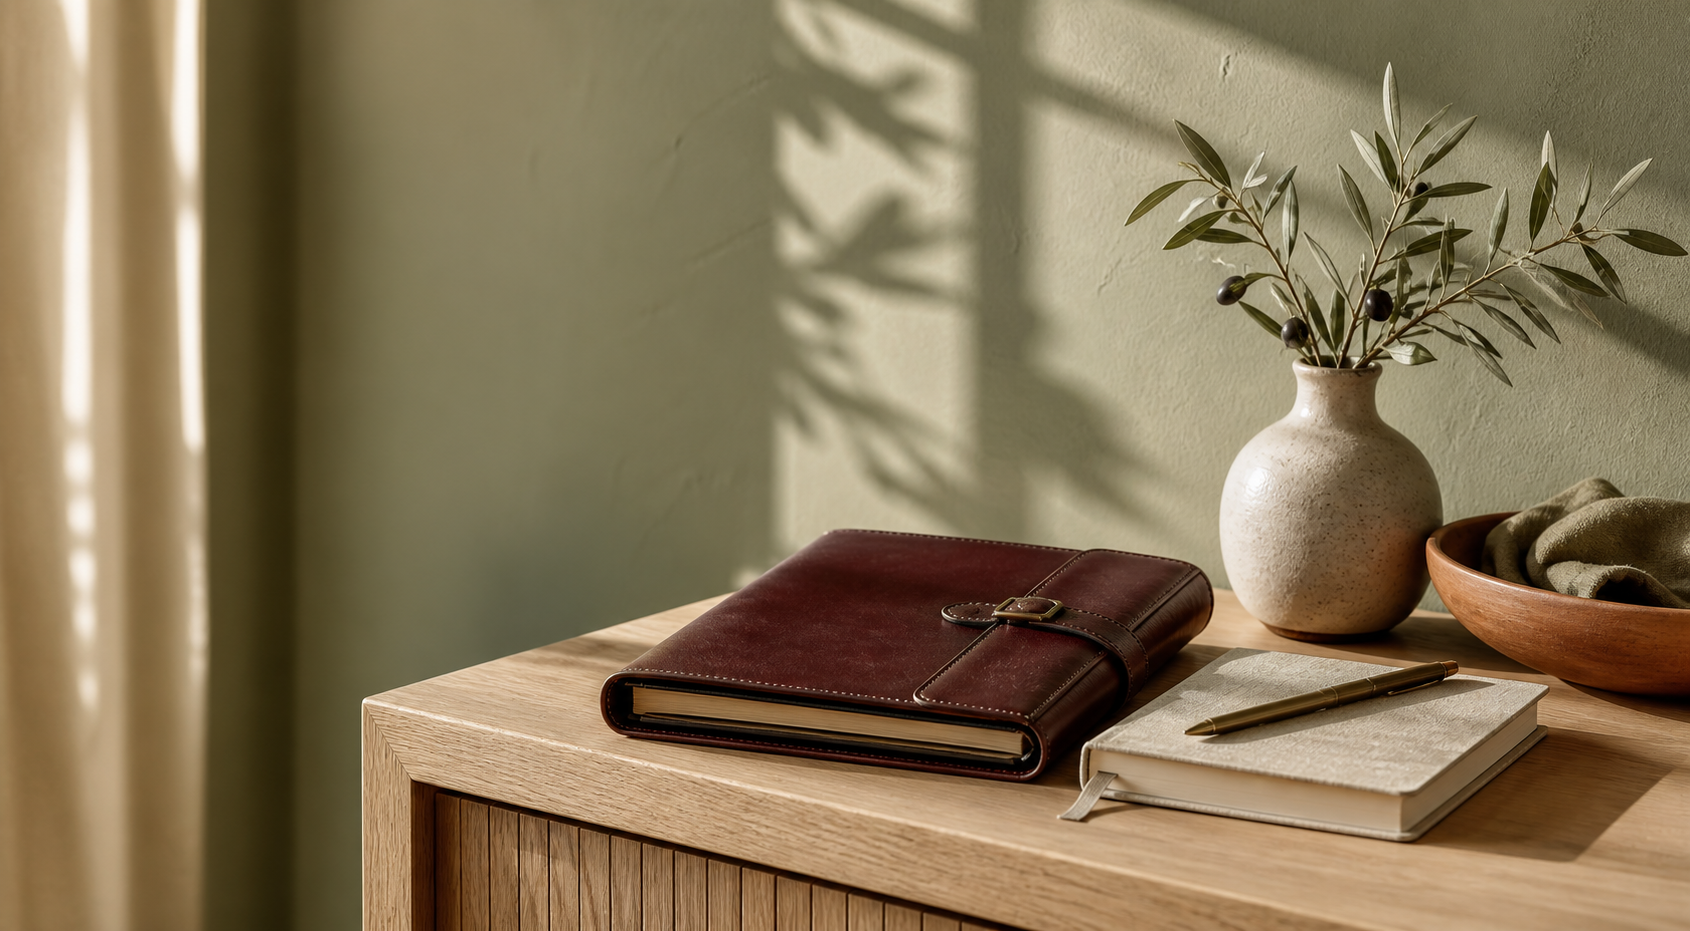
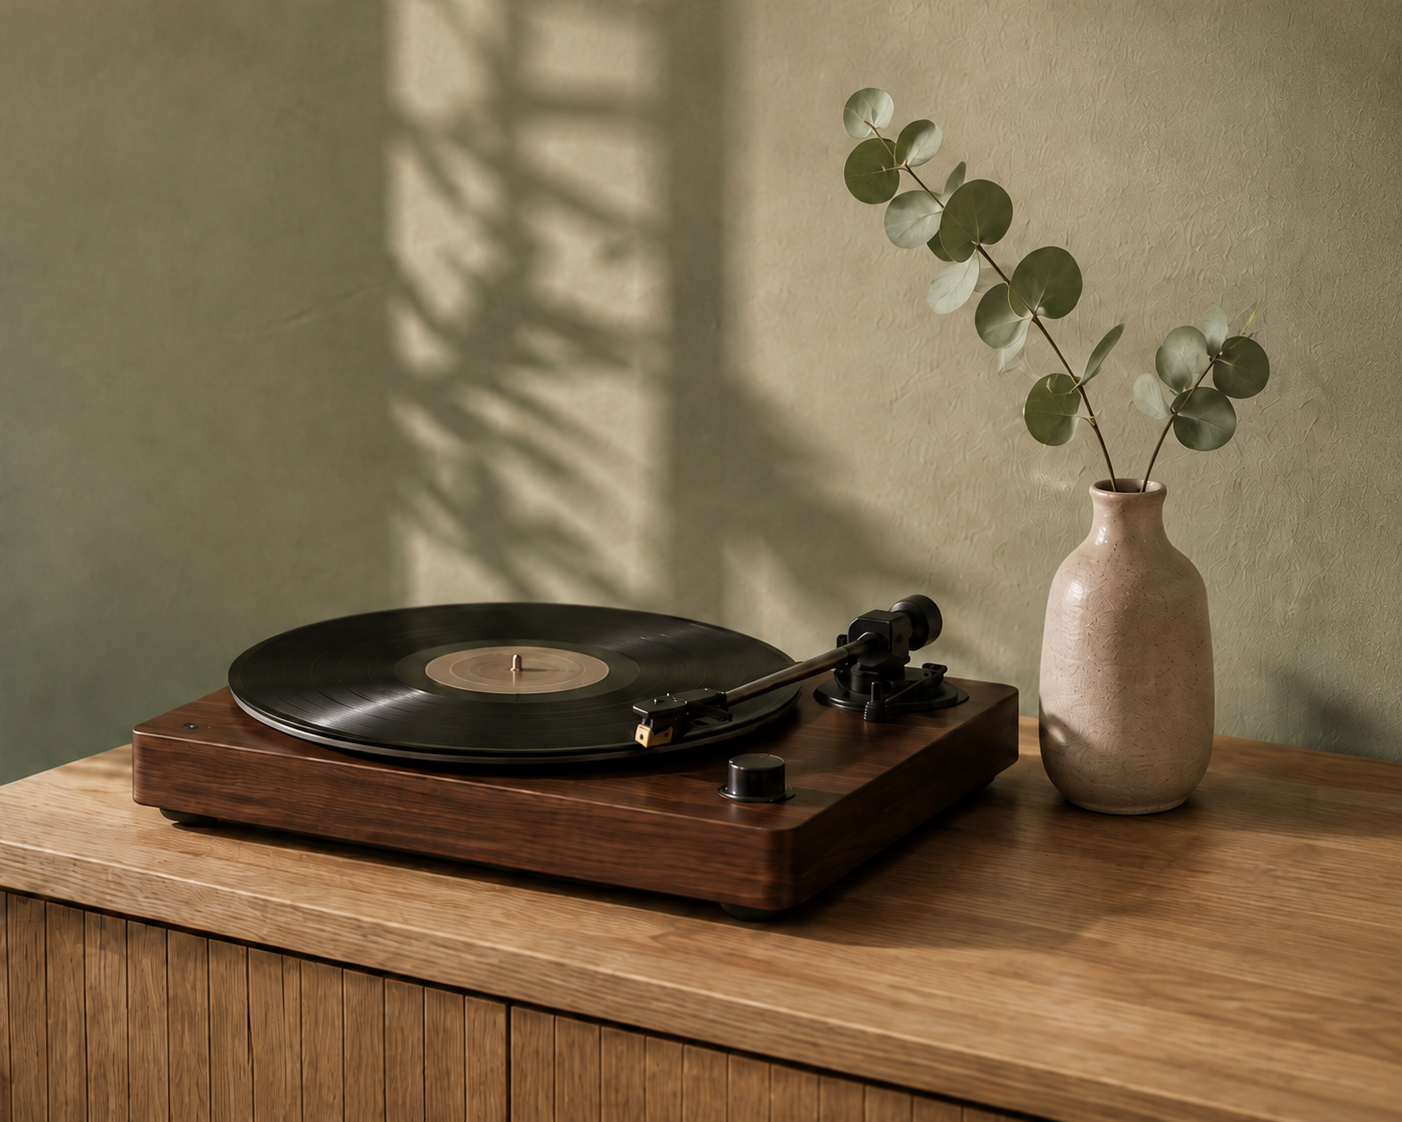
Refresh approved heritage, lifestyle, and chess hero imagery

diff --git a/theme.js b/theme.js
@@ -1,9 +1,9 @@
 (() => {
   const financialStyles = {
     heritage: {
-      image: 'assets/hero-heritage-library.png',
-      imageWebp: 'assets/hero-heritage-library.webp',
-      imageMobileWebp: 'assets/hero-heritage-library-mobile.webp',
+      image: 'assets/hero-heritage-library.png?v=20260906-1',
+      imageWebp: 'assets/hero-heritage-library.webp?v=20260906-1',
+      imageMobileWebp: 'assets/hero-heritage-library-mobile.webp?v=20260906-1',
       zh: {
         title: '傳承規劃者', short: '長期與信任',
         description: '你傾向先理解全貌，再做審慎而長遠的安排。沉穩、完整且值得信賴的資訊，最能幫助你做出決定。',
@@ -20,41 +20,41 @@
       }
     },
     precision: {
-      image: 'assets/hero-precision.png',
-      imageWebp: 'assets/hero-precision.webp',
-      imageMobileWebp: 'assets/hero-precision-mobile.webp',
+      image: 'assets/hero-precision.png?v=20260906-1',
+      imageWebp: 'assets/hero-precision.webp?v=20260906-1',
+      imageMobileWebp: 'assets/hero-precision-mobile.webp?v=20260906-1',
       zh: {
         title: '精準行動派', short: '清楚與效率',
         description: '你習慣釐清選項、比較差異，再果斷採取下一步。結構清楚、重點明確的資訊，最符合你的決策節奏。',
         heroTitle: ['釐清現在，', '決定下一步。'],
         heroCopy: ['將需求、時間與資金條件放在一起思考，', '找到清楚、合適，也能開始行動的方向。'],
-        alt: '深色石材、紙張與黃銅尺度構成的精準幾何畫面，象徵清晰而有效率的規劃'
+        alt: '黃銅圓頂檯燈下的高級木質西洋棋盤與對弈中的棋子，象徵思考布局與精準決策'
       },
       en: {
         title: 'Precision Strategist', short: 'Clear & efficient',
         description: 'You like to clarify the options, compare the differences, and then act decisively. Structured, focused information matches the way you make decisions.',
         heroTitle: ['Clarity for today.', 'Confidence for what’s next.'],
         heroCopy: ['Bring your needs, timing, and financial conditions into one clear view,', 'then find a practical direction you can act on.'],
-        alt: 'Dark stone, paper, and a brass ruler arranged in a precise geometric composition, representing clear and efficient planning'
+        alt: 'An inlaid wooden chessboard with a game in progress under a brass dome lamp, representing thoughtful strategy and precise decisions'
       }
     },
     lifestyle: {
-      image: 'assets/hero-lifestyle.png',
-      imageWebp: 'assets/hero-lifestyle.webp',
-      imageMobileWebp: 'assets/hero-lifestyle-mobile.webp',
+      image: 'assets/hero-lifestyle.png?v=20260906-1',
+      imageWebp: 'assets/hero-lifestyle.webp?v=20260906-1',
+      imageMobileWebp: 'assets/hero-lifestyle-mobile.webp?v=20260906-1',
       zh: {
         title: '從容生活家', short: '生活與彈性',
         description: '你會先從生活目標出發，再安排資金如何配合。溫暖、具體而保有彈性的建議，最能讓你安心前進。',
         heroTitle: ['把想過的生活，', '一步一步安排好。'],
         heroCopy: ['旅行、家庭，或還在形成中的計畫，', '從生活出發，找到舒服而適合自己的節奏。'],
-        alt: '自然光下的皮革手帳、亞麻筆記本與橄欖枝，象徵從容而有彈性的生活規劃'
+        alt: '自然光下的胡桃木黑膠唱盤、砂色陶瓶與尤加利枝葉，象徵從容而有品味的生活規劃'
       },
       en: {
         title: 'Life-first Planner', short: 'Flexible & human',
         description: 'You begin with the life you want, then decide how your finances can support it. Warm, practical, and flexible guidance helps you move forward comfortably.',
         heroTitle: ['Plan for the life you want,', 'one step at a time.'],
         heroCopy: ['For travel, family, or plans that are still taking shape,', 'begin with life and find a pace that feels natural to you.'],
-        alt: 'A leather planner, linen notebook, and olive branches in natural light, representing relaxed and flexible life planning'
+        alt: 'A walnut record player, sand-colored ceramic vase, and eucalyptus in natural light, representing relaxed and thoughtful life planning'
       }
     }
   };

diff --git a/index.html b/index.html
@@ -31,7 +31,7 @@
           <p class="hero-copy"><span id="heroCopyLead">不論是資金安排、旅行計畫，或還沒想清楚的選擇，</span><span id="heroCopyClose">從你的需求出發，找到適合自己的方向。</span></p>
           <a class="primary-button" href="#advisor"><span data-i18n="hero.cta">開始規劃</span> <span aria-hidden="true">→</span></a>
         </div>
-        <figure class="hero-visual"><picture><source id="heroThemeSourceMobile" media="(max-width: 820px)" type="image/webp" srcset="assets/hero-heritage-library-mobile.webp" /><source id="heroThemeSource" type="image/webp" srcset="assets/hero-heritage-library.webp" /><img id="heroThemeImage" src="assets/hero-heritage-library.png" width="1672" height="941" decoding="async" fetchpriority="high" alt="深木藏書室中的皮革帳冊與經典銀行燈，象徵審慎而長遠的財務規劃" /></picture></figure>
+        <figure class="hero-visual"><picture><source id="heroThemeSourceMobile" media="(max-width: 820px)" type="image/webp" srcset="assets/hero-heritage-library-mobile.webp?v=20260906-1" /><source id="heroThemeSource" type="image/webp" srcset="assets/hero-heritage-library.webp?v=20260906-1" /><img id="heroThemeImage" src="assets/hero-heritage-library.png?v=20260906-1" width="1379" height="1141" decoding="async" fetchpriority="high" alt="深木藏書室中的皮革帳冊與經典銀行燈，象徵審慎而長遠的財務規劃" /></picture></figure>
       </section>
 
       <section class="advisor-section" id="advisor">
@@ -116,6 +116,6 @@
     </dialog>
     <script src="i18n.js?v=20260824-3"></script>
     <script src="script.js?v=20260824-3"></script>
-    <script src="theme.js?v=20260824-2"></script>
+    <script src="theme.js?v=20260906-1"></script>
   </body>
 </html>
